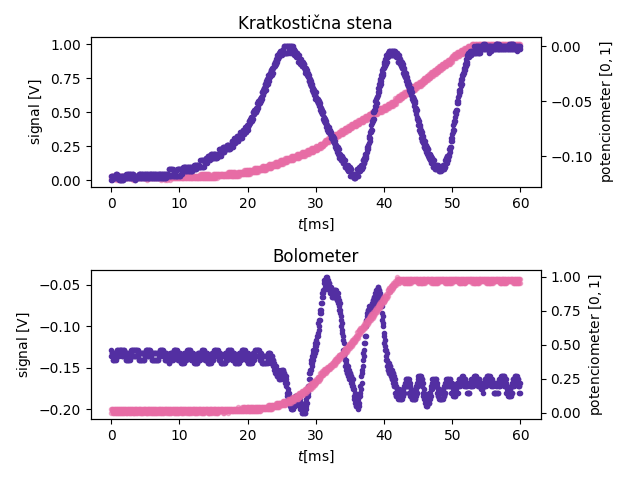
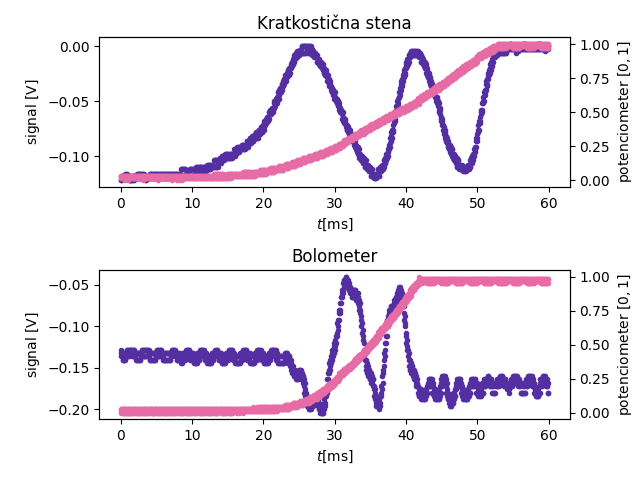
feat: graphs have vertical lines and ubranost je pravilna, wtf is my life

diff --git a/04mikroval/source/obdelovanje.py b/04mikroval/source/obdelovanje.py
@@ -4,9 +4,10 @@ import matplotlib.pyplot as plt
 import pandas as pd
 import numpy as np
 import cmasher as cmr
+from uncertainties import unumpy as unp
 
-# v datoteki csv.txt imaš podatke o začetni poziciji ch1 in ch2. Odštej ju od ch1 in ch2, ki sta extracted
-# prav tako naredi plt.twinx pri bolometru in kratkostični steni
+# calculate \beta x and other values, put them into report and let the freaking
+# magic happen.
 
 # defining class for easier handling
 class Oscilo:
@@ -17,6 +18,8 @@ class Oscilo:
     #extract time, might need to add time scale as an argument
     def time(self):
         return self.data[:, 0] * 5e-2
+    def length(self):
+        return np.linspace(0, 6.2, num=1200)
     #extract channel 1 and normalize it (sonda)
     def ch1(self):
         return (self.data[:, 1] - np.min(self.data[:, 1])) / (np.max(self.data[:, 1]) - np.min(self.data[:, 1]))
@@ -54,7 +57,7 @@ c4, c5 = cmr.take_cmap_colors("cmr.bubblegum", 2, cmap_range=(0.25, 0.75), retur
 #
 kratko = Oscilo(pd.read_csv(r'../meritve/kiki_kratki.csv'), 5.88, 0.087)
 fig, ax1 = plt.subplots(2, 1)
-ax1[0].scatter(kratko.time(), kratko.ch1(), c=c5, marker='.', label='sonda', zorder=10)
+ax1[0].scatter(kratko.time(), kratko.ch2(), c=c4, marker='.', label='meritve kratkostične stene', zorder=1)
 ax1[0].set_xlabel(r'$t[\mathrm{ms}]$')
 ax1[0].set_ylabel(r'signal $[\mathrm{V}]$')
 ax1[0].set_title('Kratkostična stena')
@@ -62,7 +65,7 @@ ax1[0].set_title('Kratkostična stena')
 # creating a twing axes for kratkostična stena
 
 ax2 = ax1[0].twinx()
-ax2.scatter(kratko.time(), kratko.ch2(), c=c4, marker='.', label='meritve kratkostične stene')
+ax2.scatter(kratko.time(), kratko.ch1(), c=c5, marker='.', label='sonda', zorder=2)
 ax2.set_ylabel(r'potenciometer $[0, 1]$')
 
 
@@ -82,35 +85,48 @@ ax3.set_ylabel(r'potenciometer $[0, 1]$')
 fig.tight_layout()
 fig.savefig('../figures/kratkoInBolo')
 plt.close()
-#plt.scatter(kratko.time(), kratko.ch1(), c=c4, marker='.',label='sonda')
-#plt.scatter(kratko.time(), kratko.ch2_norm(), c=c5, marker='.',label='meritve')
-#plt.title('Meritve s kratkostično steno')
-#plt.legend()
-#plt.savefig('../figures/test.png')
-#plt.close()
 
 antena = Oscilo(pd.read_csv(r'../meritve/kik_antena.csv'), 5.88, 0.035)
-#plt.plot(antena.time(), antena.ch1(), c=c4, marker='.',label='sonda')
-#plt.plot(antena.time(), antena.ch2_norm(), c=c5, marker='.',label='meritve')
-#plt.title('Meritve z anteno')
-#plt.legend()
-#plt.savefig('../figures/test_antena.png')
-#plt.close()
-
-#plt.plot(bolometer.time(), bolometer.ch1(), c=c4, marker='.',label='sonda')
-#plt.plot(bolometer.time(), bolometer.ch2_norm(), c=c5, marker='.',label='meritve')
-#plt.title('Meritve z bolometrom')
-#plt.legend()
-#plt.savefig('../figures/test_bolometer.png')
-#plt.close()
-
-# krivulja ubranosti
-#plt.scatter(kratko.time(), kratko.ch2(), c=c4, marker='.', label='kratko')
-#plt.scatter(bolometer.time(), bolometer.ch2(), c=c5, marker='.', label='bolometer')
-#
-#plt.legend()
-#plt.savefig('../figures/kratkoInBolo.png')
-#plt.close()
 
 
-# data might be wrong
+# --- ubranost ---
+# shortening of arrays (using signal on interval 2.0 cm to 6.2 cm)
+short_length = bolometer.length()[2.0 <= bolometer.length()]
+short_bolometer = bolometer.ch2()[2.0 <= bolometer.length()]
+short_kratko = kratko.ch2()[2.0 <= bolometer.length()]
+
+# izračun
+# minimum bolometra, napaka je \pm na zadnjo decimalko
+
+minimum = unp.uarray(np.min(short_bolometer), 0.001)
+maksimum = unp.uarray(np.max(short_bolometer), 0.001)
+
+indeks_minimuma = np.argmin(short_bolometer)
+indeks_maksimuma = np.argmax(short_bolometer)
+
+# drawing data
+
+plt.scatter(short_length, short_bolometer, marker='.', c=c4, label='bolometer')
+plt.scatter(short_length, short_kratko, marker='.', c=c5,
+            label='kratkostična stena')
+
+# drawing horizontal lines where I took the minimum/maximum value
+
+plt.hlines(short_bolometer[indeks_minimuma], 2.0, 6.21, color=c3)
+plt.hlines(short_bolometer[indeks_maksimuma], 2.0, 6.21, color=c3)
+
+# drawing vertical lines for difference between two minimums of bolometer and
+# kratkostična stena
+
+# everything else for beautiful graphs
+plt.xlabel(r'Razdalja $[\mathrm{cm}]$')
+plt.ylabel(r'Signal $[\mathrm{V}]$')
+plt.legend()
+plt.title('Krivulja ubranosti')
+plt.savefig('../figures/krivulja_ubranost.png')
+plt.close()
+
+# ubranost
+
+s = unp.sqrt(maksimum / minimum)
+print(s)
